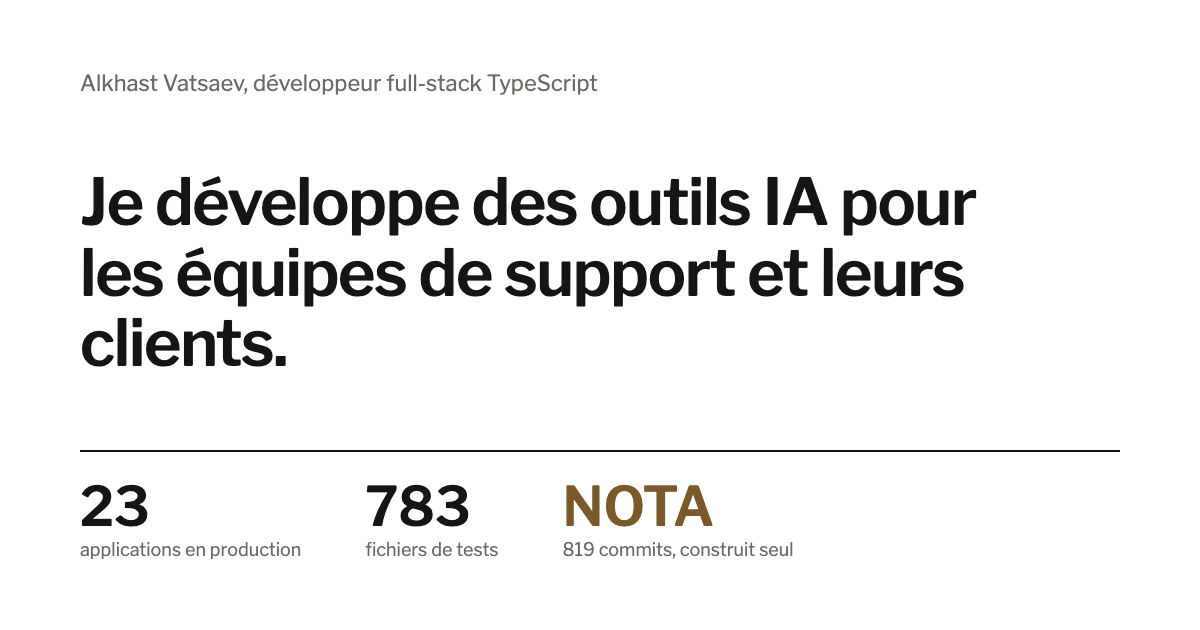
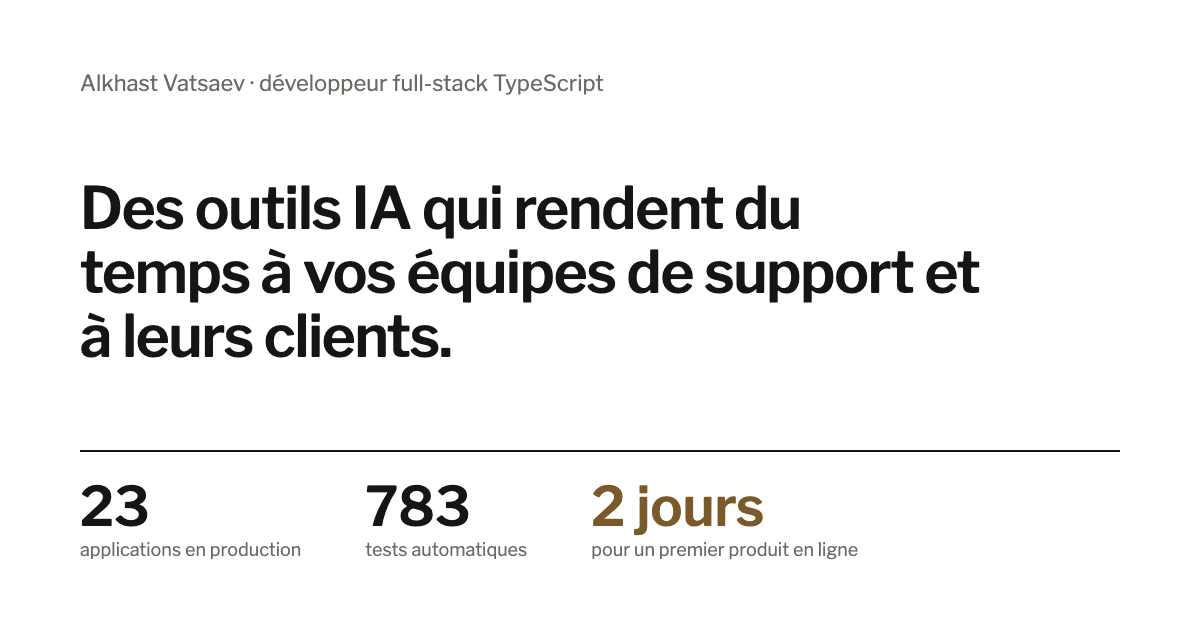
Textes centrés sur ce que les visiteurs obtiennent, plus de « je »
- Titre, accroche, chiffres, projets et garanties réécrits du point de vue
  du visiteur (FR et EN)
- « Ma façon de travailler » devient « Garanties »
- Titre de page, description et image de partage mis à jour
- Test : aucune tournure à la première personne (je/moi/mon/ma/mes, I/me/my)
- Test d'alignement du scanner rendu stable (bord gauche des étincelles)

diff --git a/src/lib/i18n.ts b/src/lib/i18n.ts
@@ -44,28 +44,28 @@ export const dict = {
   fr: {
     skip: "Aller au contenu",
     nav: { contact: "Contact", prev: "Précédent", next: "Suivant", hint: "La suite est à droite" },
-    labels: ["Accueil", "Projets", "NOTA", "SHMOT", "Moon", "Alkhast Homes", "Outils", "Méthode", "Contact"],
-    intro: "Alkhast Vatsaev, développeur full-stack TypeScript. Avant le code, 20 mois de 3D en haute joaillerie (Cartier, Van Cleef & Arpels). Disponible tout de suite, en CDI.",
-    title: "Je développe des outils IA pour les équipes de support et leurs clients.",
-    lead: "Depuis février 2026, j'ai mis 23 applications en production. La plus grosse, NOTA, gère des interventions de techniciens chez les clients : 819 commits, 630 fichiers de tests.",
+    labels: ["Accueil", "En direct", "NOTA", "SHMOT", "Moon", "Alkhast Homes", "Outils", "Garanties", "Contact"],
+    intro: "Alkhast Vatsaev · développeur full-stack TypeScript · disponible tout de suite, en CDI",
+    title: "Des outils IA qui rendent du temps à vos équipes de support et à leurs clients.",
+    lead: "Moins de saisie et de tâches répétitives. Des applications testées avant chaque mise en ligne. Un premier prototype visible en quelques jours.",
     stats: [
-      ["23", "applications en production"],
-      ["783", "fichiers de tests automatisés"],
-      ["2", "jours de travail par projet, en médiane"],
+      ["23", "applications déjà en production"],
+      ["783", "tests automatiques qui protègent chaque mise en ligne"],
+      ["2", "jours de travail, en médiane, pour un premier produit en ligne"],
     ],
-    verify: "Chiffres relevés sur mon GitHub le 21 novembre 2026.",
-    verifyLink: "Voir le GitHub",
-    scannerTitle: "Quatre projets que je peux vous montrer en direct.",
+    verify: "Chiffres vérifiables sur GitHub, relevés le 21 novembre 2026.",
+    verifyLink: "Ouvrir le GitHub",
+    scannerTitle: "Quatre applications à voir tourner aujourd'hui.",
     scannerText: "Attrapez une carte pour la faire défiler plus vite.",
     proofs: [
       {
         id: "nota",
-        label: "NOTA · mai à août 2026",
-        title: "Un logiciel d'interventions terrain, construit seul.",
+        label: "NOTA · logiciel d'interventions terrain",
+        title: "Techniciens, interventions et factures au même endroit.",
         paragraphs: [
-          "Les entreprises qui envoient des techniciens chez leurs clients gèrent souvent tout entre WhatsApp, Excel et des factures éparpillées.",
-          "NOTA regroupe tout : la carte des interventions pour le bureau, une appli hors ligne pour les techniciens, la facturation à la clôture. Applis iOS et Android, interface en 4 langues.",
-          "9 modules IA : le technicien dicte son compte rendu et l'intervention se clôt, un e-mail client devient un ticket. gpt-4o-mini par défaut, gpt-4o pour les cas difficiles.",
+          "Le bureau voit toutes les interventions sur une carte. Les techniciens ont une appli qui fonctionne même sans réseau. La facture part dès la clôture.",
+          "Un compte rendu dicté devient un rapport, un e-mail client devient un ticket : 9 modules IA suppriment la saisie manuelle.",
+          "gpt-4o-mini par défaut, gpt-4o seulement pour les cas difficiles : un coût d'IA maîtrisé. Applis iOS et Android, 4 langues.",
         ],
         figures: [
           ["819", "commits"],
@@ -78,11 +78,11 @@ export const dict = {
       },
       {
         id: "shmot",
-        label: "SHMOT · novembre 2026",
-        title: "Une marketplace de mode avec une appli iPhone native, en 10 jours.",
+        label: "SHMOT · marketplace de mode",
+        title: "Une appli iPhone native et son site web, livrés en 10 jours.",
         paragraphs: [
-          "Revente de vêtements « vidéo d'abord » pour la Gen Z au Kazakhstan. Une appli iPhone en Swift, un site web, et un moteur de recommandation qui apprend le style de chacun à partir de ce qu'il regarde.",
-          "Sous le capot : monorepo pnpm, Next.js et une API Hono, PostgreSQL avec pgvector, et un service Python (FastAPI) qui calcule des embeddings d'images pour la recherche visuelle. Interface en russe, kazakh et anglais.",
+          "Fil vidéo, recherche par photo, recommandations qui apprennent les goûts de chaque utilisateur, paiement et livraison intégrés.",
+          "Swift, Next.js, PostgreSQL avec pgvector, et un service Python d'IA d'images. Trois langues : russe, kazakh, anglais.",
         ],
         figures: [
           ["226", "commits en 10 jours de travail"],
@@ -91,19 +91,19 @@ export const dict = {
           ["49", "fichiers de tests"],
         ],
         image: "/cards/shmot-app.jpg",
-        link: { href: "https://shmot-chi.vercel.app", label: "Version web (le code est privé)" },
+        link: { href: "https://shmot-chi.vercel.app", label: "Version web (code privé)" },
       },
       {
         id: "moon",
-        label: "Moon · open source",
-        title: "Un enregistreur d'écran pour Mac, qui ne passe par aucun cloud.",
+        label: "Moon · enregistreur d'écran pour Mac",
+        title: "Des vidéos d'écran dont les données ne quittent jamais la machine.",
         paragraphs: [
-          "Une alternative personnelle à Loom : icône dans la barre des menus, compte à rebours, bulle webcam déplaçable, et une petite « Dynamic Island » pour mettre en pause ou valider.",
-          "Le fond de la webcam est flouté en temps réel par MediaPipe, directement sur la machine. La vidéo est convertie en MP4 avec ffmpeg et rangée dans Téléchargements.",
+          "Bulle webcam déplaçable avec flou d'arrière-plan calculé en local, barre de contrôle discrète, export MP4 direct dans Téléchargements.",
+          "Code public sous licence MIT : chaque ligne peut être vérifiée.",
         ],
         figures: [
+          ["0", "donnée envoyée en ligne"],
           ["Electron", "+ React + TypeScript"],
-          ["100 %", "local, rien n'est envoyé"],
           ["MIT", "code public"],
         ],
         image: "/cards/moon-app.jpg",
@@ -111,11 +111,11 @@ export const dict = {
       },
       {
         id: "alkhast-homes",
-        label: "Alkhast Homes · octobre 2026",
-        title: "Les outils de mon activité d'agent immobilier à Strasbourg.",
+        label: "Alkhast Homes · outils d'un agent immobilier à Strasbourg",
+        title: "Un assistant qui prépare la journée et protège les données des clients.",
         paragraphs: [
-          "Un moteur Python tourne 24 h/24 sur mon Mac (8 services launchd) et prépare le travail du jour. Je valide tout depuis une appli Mac native en SwiftUI, avec des commandes Siri, ou depuis un bot Telegram.",
-          "Les clients passent par une Mini App Telegram : biens, demande de visite, dépôt de dossier. Chaque appel à l'API vérifie la signature Telegram (HMAC), et les documents vont dans un stockage privé, accessibles par lien signé.",
+          "Un moteur tourne 24 h/24 et ne présente que les décisions à prendre : sur une appli Mac native, avec Siri, ou dans Telegram.",
+          "Côté clients, chaque échange est vérifié par signature (HMAC) et chaque document reste dans un stockage privé, accessible par lien signé.",
         ],
         figures: [
           ["142", "commits en 9 jours de travail"],
@@ -124,23 +124,23 @@ export const dict = {
           ["18", "fichiers de tests"],
         ],
         image: "/cards/alkhast-homes-app.jpg",
-        link: { href: "https://adam-rieltor.vercel.app", label: "La Mini App (le code est privé)" },
+        link: { href: "https://adam-rieltor.vercel.app", label: "La Mini App (code privé)" },
       },
     ] satisfies readonly Proof[],
     commitsTitle: "Extrait du journal Git de NOTA, tel quel",
-    stackTitle: ["Ce que j'utilise ", "tous les jours", "."],
-    methodLabel: "Ma façon de travailler",
-    methodTitle: "Ce que j'ai retenu de 10 mois de production.",
+    stackTitle: ["Des outils ", "éprouvés en production", "."],
+    methodLabel: "Garanties",
+    methodTitle: "Ce que chaque projet vous apporte.",
     principles: [
-      ["Commencer par le besoin du client", "Avant de choisir une techno, je regarde qui va utiliser l'outil et ce qui le bloque. Souvent, la solution la plus simple suffit."],
-      ["Rien ne part en production sans tests", "783 fichiers de tests et 34 chaînes d'intégration continue. Si un test casse, la mise en ligne s'arrête."],
-      ["Cloisonner les accès et les données", "Dans NOTA, l'administrateur, le technicien et le client ne voient pas les mêmes choses. Chaque rôle a ses droits."],
-      ["Automatiser ce qui revient trois fois", "Un compte rendu dicté qui clôt l'intervention, un e-mail qui devient un ticket : c'est du temps rendu aux équipes."],
-      ["Documenter pour l'équipe qui suit", "NOTA a sa carte du code et un dossier d'exploitation. Le prochain développeur ne part pas de zéro."],
+      ["Une solution à la taille du besoin", "Les utilisateurs passent avant la technologie. Souvent, la solution la plus simple suffit, et elle coûte moins cher."],
+      ["Des mises en ligne sans mauvaise surprise", "783 tests automatiques et 34 chaînes d'intégration continue : si un test casse, rien ne part en production."],
+      ["Des données cloisonnées", "Chaque rôle voit uniquement ce qui le concerne : administrateur, technicien, client."],
+      ["Moins de tâches répétitives", "Ce qui revient trois fois est automatisé : comptes rendus dictés, e-mails transformés en tickets."],
+      ["Un code que votre équipe peut reprendre", "Carte du code, documentation d'exploitation et tests : la personne suivante ne part pas de zéro."],
     ],
-    honesty: "Je viens du développement. L'infrastructure (Windows Server, virtualisation, réseau), je l'apprends au contact de ceux qui la maîtrisent.",
-    contactTitle: "Le plus simple, c'est un e-mail.",
-    contactText: "Je suis disponible tout de suite, en hybride ou sur site.",
+    honesty: "Spécialité : développement et IA appliquée. L'infrastructure (Windows Server, virtualisation, réseau) est en cours d'apprentissage.",
+    contactTitle: "Une équipe à épauler ? Un e-mail suffit.",
+    contactText: "Disponible tout de suite, en CDI, en hybride ou sur site.",
     copy: "Copier l'adresse",
     copied: "Adresse copiée",
     footer: "Le code de ce site est public",
@@ -148,28 +148,28 @@ export const dict = {
   en: {
     skip: "Skip to content",
     nav: { contact: "Contact", prev: "Previous", next: "Next", hint: "More to the right" },
-    labels: ["Home", "Projects", "NOTA", "SHMOT", "Moon", "Alkhast Homes", "Tools", "Method", "Contact"],
-    intro: "Alkhast Vatsaev, full-stack TypeScript developer. Before code, 20 months of 3D in high jewelry (Cartier, Van Cleef & Arpels). Available now, full-time.",
-    title: "I build AI tools for support teams and their clients.",
-    lead: "Since February 2026 I've put 23 applications into production. The largest, NOTA, handles technician jobs at client sites: 819 commits, 630 test files.",
+    labels: ["Home", "Live", "NOTA", "SHMOT", "Moon", "Alkhast Homes", "Tools", "Guarantees", "Contact"],
+    intro: "Alkhast Vatsaev · full-stack TypeScript developer · available now, full-time",
+    title: "AI tools that give time back to your support teams and their clients.",
+    lead: "Less data entry and fewer repetitive tasks. Apps tested before every release. A first prototype you can see within days.",
     stats: [
-      ["23", "applications in production"],
-      ["783", "automated test files"],
-      ["2", "working days per project, median"],
+      ["23", "applications already in production"],
+      ["783", "automated tests guarding every release"],
+      ["2", "working days, median, to a first live product"],
     ],
-    verify: "Numbers taken from my GitHub on 21 November 2026.",
+    verify: "Numbers you can check on GitHub, taken on 21 November 2026.",
     verifyLink: "Open GitHub",
-    scannerTitle: "Four projects I can show you live.",
+    scannerTitle: "Four apps you can see running today.",
     scannerText: "Grab a card to make it move faster.",
     proofs: [
       {
         id: "nota",
-        label: "NOTA · May to August 2026",
-        title: "A field-service app, built on my own.",
+        label: "NOTA · field-service software",
+        title: "Technicians, jobs and invoices in one place.",
         paragraphs: [
-          "Companies that send technicians to client sites often run everything through WhatsApp, Excel and scattered invoices.",
-          "NOTA puts it in one place: a job map for the office, an offline app for technicians, invoicing when the job closes. iOS and Android apps, interface in 4 languages.",
-          "9 AI modules: the technician dictates the report and the job closes, a client e-mail becomes a ticket. gpt-4o-mini by default, gpt-4o for the hard cases.",
+          "The office sees every job on a map. Technicians get an app that works even offline. The invoice goes out as soon as the job closes.",
+          "A dictated note becomes a report, a client e-mail becomes a ticket: 9 AI modules remove manual data entry.",
+          "gpt-4o-mini by default, gpt-4o only for the hard cases: AI costs under control. iOS and Android apps, 4 languages.",
         ],
         figures: [
           ["819", "commits"],
@@ -182,11 +182,11 @@ export const dict = {
       },
       {
         id: "shmot",
-        label: "SHMOT · November 2026",
-        title: "A fashion marketplace with a native iPhone app, in 10 days.",
+        label: "SHMOT · fashion marketplace",
+        title: "A native iPhone app and its website, delivered in 10 days.",
         paragraphs: [
-          "Video-first clothing resale for Gen Z in Kazakhstan. An iPhone app in Swift, a website, and a recommendation engine that learns each person's style from what they watch.",
-          "Under the hood: a pnpm monorepo, Next.js with a Hono API, PostgreSQL with pgvector, and a Python service (FastAPI) that computes image embeddings for visual search. Interface in Russian, Kazakh and English.",
+          "Video feed, search by photo, recommendations that learn each user's taste, payment and delivery built in.",
+          "Swift, Next.js, PostgreSQL with pgvector, and a Python image-AI service. Three languages: Russian, Kazakh, English.",
         ],
         figures: [
           ["226", "commits in 10 working days"],
@@ -195,19 +195,19 @@ export const dict = {
           ["49", "test files"],
         ],
         image: "/cards/shmot-app.jpg",
-        link: { href: "https://shmot-chi.vercel.app", label: "Web version (code is private)" },
+        link: { href: "https://shmot-chi.vercel.app", label: "Web version (private code)" },
       },
       {
         id: "moon",
-        label: "Moon · open source",
-        title: "A Mac screen recorder that never touches the cloud.",
+        label: "Moon · screen recorder for Mac",
+        title: "Screen videos whose data never leaves the machine.",
         paragraphs: [
-          "My own alternative to Loom: a menu-bar icon, a countdown, a draggable webcam bubble, and a small \u201cDynamic Island\u201d to pause or confirm.",
-          "The webcam background is blurred in real time by MediaPipe, on the machine itself. The video is converted to MP4 with ffmpeg and saved to Downloads.",
+          "A draggable webcam bubble with background blur computed locally, a discreet control bar, MP4 export straight to Downloads.",
+          "Public code under the MIT licence: every line can be checked.",
         ],
         figures: [
+          ["0", "data sent online"],
           ["Electron", "+ React + TypeScript"],
-          ["100%", "local, nothing is uploaded"],
           ["MIT", "public code"],
         ],
         image: "/cards/moon-app.jpg",
@@ -215,11 +215,11 @@ export const dict = {
       },
       {
         id: "alkhast-homes",
-        label: "Alkhast Homes · October 2026",
-        title: "The tools behind my real-estate agent work in Strasbourg.",
+        label: "Alkhast Homes · tools for a real-estate agent in Strasbourg",
+        title: "An assistant that prepares the day and protects client data.",
         paragraphs: [
-          "A Python engine runs 24/7 on my Mac (8 launchd services) and prepares the day's work. I approve everything from a native SwiftUI Mac app, with Siri commands, or from a Telegram bot.",
-          "Clients use a Telegram Mini App: listings, visit requests, document upload. Every API call checks the Telegram signature (HMAC), and documents go to private storage, reachable only through signed links.",
+          "An engine runs 24/7 and only shows the decisions to make: in a native Mac app, with Siri, or in Telegram.",
+          "On the client side, every exchange is checked by signature (HMAC) and every document stays in private storage, reachable through signed links.",
         ],
         figures: [
           ["142", "commits in 9 working days"],
@@ -228,23 +228,23 @@ export const dict = {
           ["18", "test files"],
         ],
         image: "/cards/alkhast-homes-app.jpg",
-        link: { href: "https://adam-rieltor.vercel.app", label: "The Mini App (code is private)" },
+        link: { href: "https://adam-rieltor.vercel.app", label: "The Mini App (private code)" },
       },
     ] satisfies readonly Proof[],
     commitsTitle: "From NOTA's Git log, as written",
-    stackTitle: ["What I use ", "every day", "."],
-    methodLabel: "How I work",
-    methodTitle: "What 10 months in production taught me.",
+    stackTitle: ["Tools ", "proven in production", "."],
+    methodLabel: "Guarantees",
+    methodTitle: "What every project brings you.",
     principles: [
-      ["Start from the client's need", "Before picking a tool, I look at who will use it and what blocks them. Often the simplest solution is enough."],
-      ["Nothing reaches production without tests", "783 test files and 34 CI pipelines. If a test breaks, the release stops."],
-      ["Keep access and data separated", "In NOTA, the admin, the technician and the client don't see the same things. Each role has its own rights."],
-      ["Automate what comes back three times", "A dictated report that closes the job, an e-mail that becomes a ticket: time given back to the team."],
-      ["Document for the team that follows", "NOTA has a code map and an operations folder. The next developer doesn't start from scratch."],
+      ["A solution sized to the need", "Users come before technology. Often the simplest solution is enough, and it costs less."],
+      ["Releases without bad surprises", "783 automated tests and 34 CI pipelines: if a test breaks, nothing reaches production."],
+      ["Separated data", "Each role only sees what concerns it: admin, technician, client."],
+      ["Fewer repetitive tasks", "Whatever comes back three times gets automated: dictated reports, e-mails turned into tickets."],
+      ["Code your team can take over", "A code map, operations docs and tests: whoever comes next doesn't start from scratch."],
     ],
-    honesty: "I come from development. Infrastructure (Windows Server, virtualisation, networking) is something I'm learning from people who master it.",
-    contactTitle: "The simplest is an e-mail.",
-    contactText: "I'm available now, hybrid or on site.",
+    honesty: "Speciality: development and applied AI. Infrastructure (Windows Server, virtualisation, networking) is being learned.",
+    contactTitle: "A team to support? One e-mail is enough.",
+    contactText: "Available now, full-time, hybrid or on site.",
     copy: "Copy address",
     copied: "Address copied",
     footer: "This site's code is public",

diff --git a/e2e/smoke.spec.ts b/e2e/smoke.spec.ts
@@ -88,8 +88,11 @@ async function scannerAlignment(page: import("@playwright/test").Page) {
     const columns = new Float64Array(width);
     for (let y = 0; y < height; y += 2)
       for (let x = 0; x < width; x++) columns[x] += data[(y * width + x) * 4 + 3];
+    // Sparks are born on the line and only drift right: take the left edge of the glow.
+    let max = 0;
+    for (let x = 0; x < width; x++) if (columns[x] > max) max = columns[x];
     let best = 0;
-    for (let x = 1; x < width; x++) if (columns[x] > columns[best]) best = x;
+    while (best < width - 1 && columns[best] < max * 0.25) best++;
     const rect = sparks.getBoundingClientRect();
     const sparksX = rect.left + (best / width) * rect.width;
     const line = section.querySelector(".scanner-line")!.getBoundingClientRect();
@@ -100,7 +103,7 @@ async function scannerAlignment(page: import("@playwright/test").Page) {
 test("scanner sparks stay on the scanner line, even after a resize", async ({ page }) => {
   await gotoPanel2(page);
   let a = await scannerAlignment(page);
-  expect(Math.abs(a.sparksX - a.lineX)).toBeLessThan(8);
+  expect(Math.abs(a.sparksX - a.lineX)).toBeLessThan(5);
 
   for (const width of [900, 1600]) {
     await page.setViewportSize({ width, height: 800 });
@@ -109,7 +112,7 @@ test("scanner sparks stay on the scanner line, even after a resize", async ({ pa
     await page.getByRole("button", { name: "Précédent" }).click();
     await page.waitForTimeout(900);
     a = await scannerAlignment(page);
-    expect(Math.abs(a.sparksX - a.lineX), `width ${width}`).toBeLessThan(8);
+    expect(Math.abs(a.sparksX - a.lineX), `width ${width}`).toBeLessThan(5);
   }
 });
 

diff --git a/src/lib/seo.ts b/src/lib/seo.ts
@@ -9,8 +9,8 @@ const titles = {
 };
 
 const descriptions = {
-  fr: `Développeur full-stack TypeScript. Depuis février 2026, ${metrics.liveApps} applications en production, dont NOTA (819 commits, 630 fichiers de tests). Disponible tout de suite.`,
-  en: `Full-stack TypeScript developer. Since February 2026, ${metrics.liveApps} applications in production, including NOTA (819 commits, 630 test files). Available now.`,
+  fr: `Des outils IA qui rendent du temps aux équipes de support et à leurs clients. ${metrics.liveApps} applications en production, ${metrics.testFiles} tests automatiques. Développeur full-stack TypeScript, disponible tout de suite.`,
+  en: `AI tools that give time back to support teams and their clients. ${metrics.liveApps} applications in production, ${metrics.testFiles} automated tests. Full-stack TypeScript developer, available now.`,
 };
 
 /** Base metadata for a root layout. */

diff --git a/src/lib/i18n.test.ts b/src/lib/i18n.test.ts
@@ -44,6 +44,15 @@ describe("one-page site copy", () => {
     for (const term of terms) expect(text.includes(term), "a private term is on the site").toBe(false);
   });
 
+  // The site talks about what visitors get, never "I / me / my".
+  it("never speaks in the first person", () => {
+    const fr = allText(dict.fr).join("\n");
+    const en = allText(dict.en).join("\n");
+    // Unicode-aware word edges, so "maîtrisé" is not read as "ma".
+    expect(fr).not.toMatch(/(?<!\p{L})(je|moi|mon|ma|mes)(?!\p{L})|(?<!\p{L})j['’]/iu);
+    expect(en).not.toMatch(/\b(I|I['’]m|I['’]ve|me|my|mine)\b/);
+  });
+
   // Anti "AI-generated" guard: no em dashes, no "not X, but Y" slogans.
   it("avoids the usual AI-writing tells", () => {
     const text = [...allText(dict.fr), ...allText(dict.en)].join("\n");
